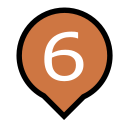
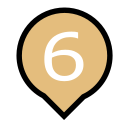
Stop this now!

diff --git a/AcornSat.Analyser/Program.cs b/AcornSat.Analyser/Program.cs
@@ -511,12 +511,12 @@ static void GenerateMapMarkers()
         "#2166AC",
 
         "#ffffff",
+        "#ffffff",
+        "#ffffd0",
         "#ffffd0",
         "#e4bd7d",
         "#e4bd7d",
         "#ce7642",
-        "#ce7642",
-        "#b2182b",
         "#b2182b",
         "#67001f",
 
@@ -528,11 +528,11 @@ static void GenerateMapMarkers()
         "#ffffff",
         "#ffffff",
 
-        "#000000",
         "#333333",
+        "#000000",
         "#666666",
-        "#666666",
-        "#ffffff",
+        "#333333",
+        "#333333",
         "#ffffff",
         "#ffffff",
         "#ffffff",
